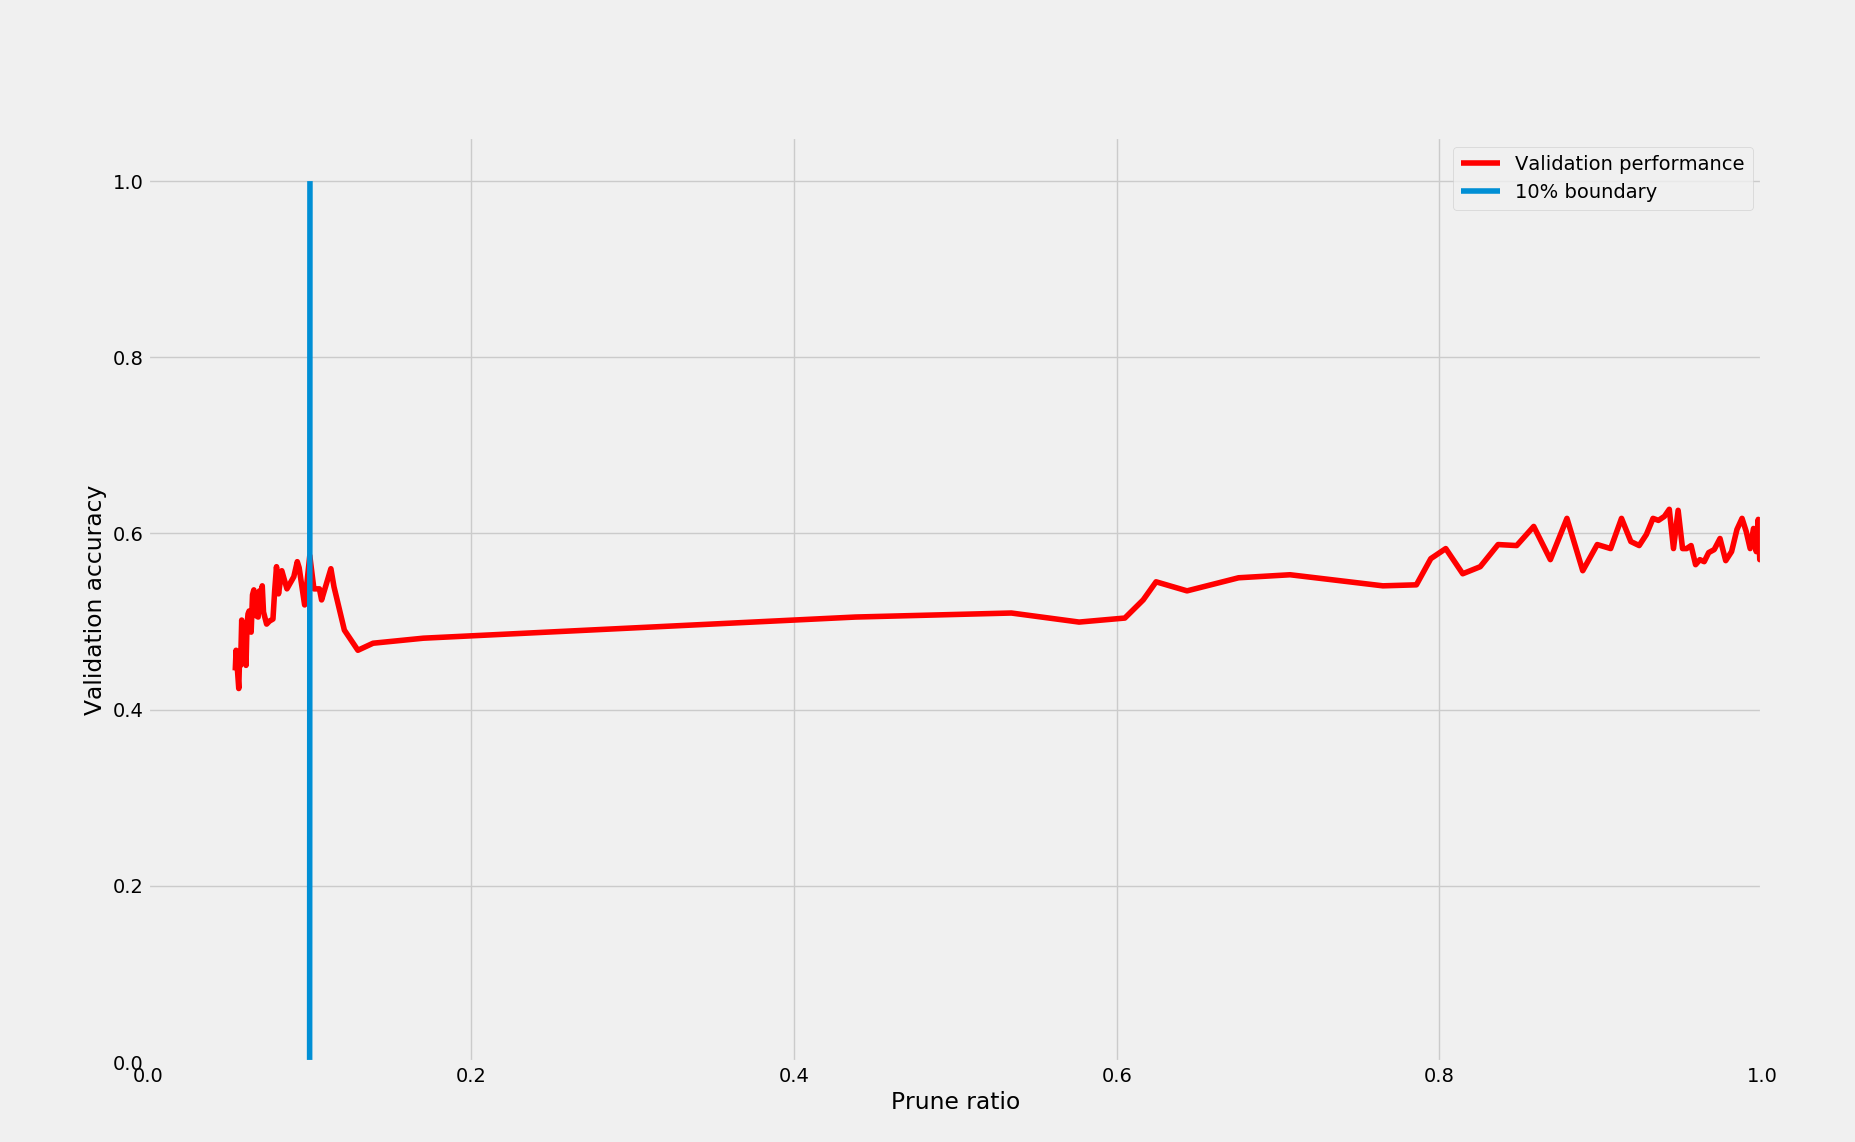
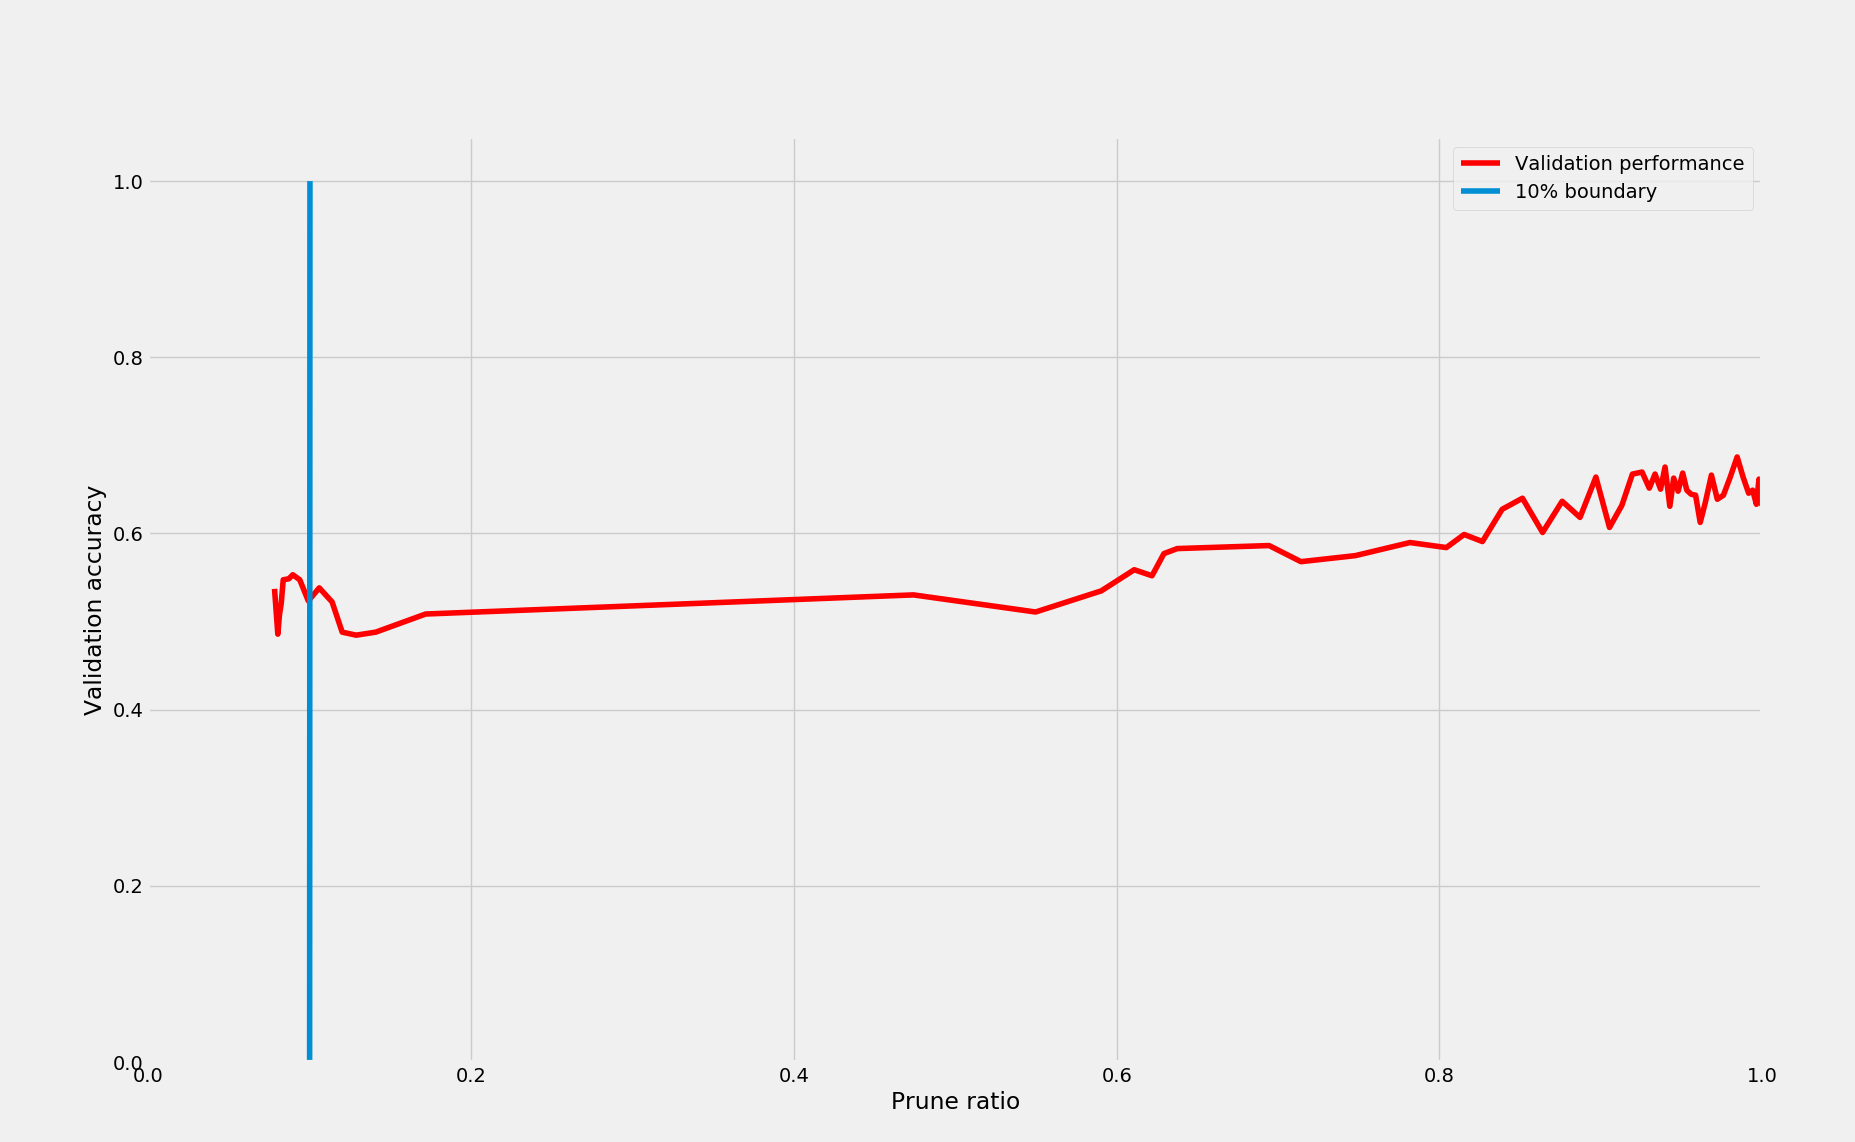
new pruning curves

Changed region(s): [[0.1844, 0.3984, 0.9526, 0.5823], [0.1229, 0.4904, 0.1844, 0.613]]

diff --git a/weight_uncertainty/prune.py b/weight_uncertainty/prune.py
@@ -34,7 +34,7 @@ def main(dataloader):
                   f' and accuracy {acc_test:5.3f}')
             prune_results.append((threshold, prune_ratio, acc_test))
 
-            threshold -= 0.5
+            threshold -= 0.1
             count += 1
 
         # and the pyplot fun :)

diff --git a/weight_uncertainty/__init__.py b/weight_uncertainty/__init__.py
@@ -1,3 +1,3 @@
 from weight_uncertainty.config import Config
 
-conf = Config('cifar')
+conf = Config('mnist')
